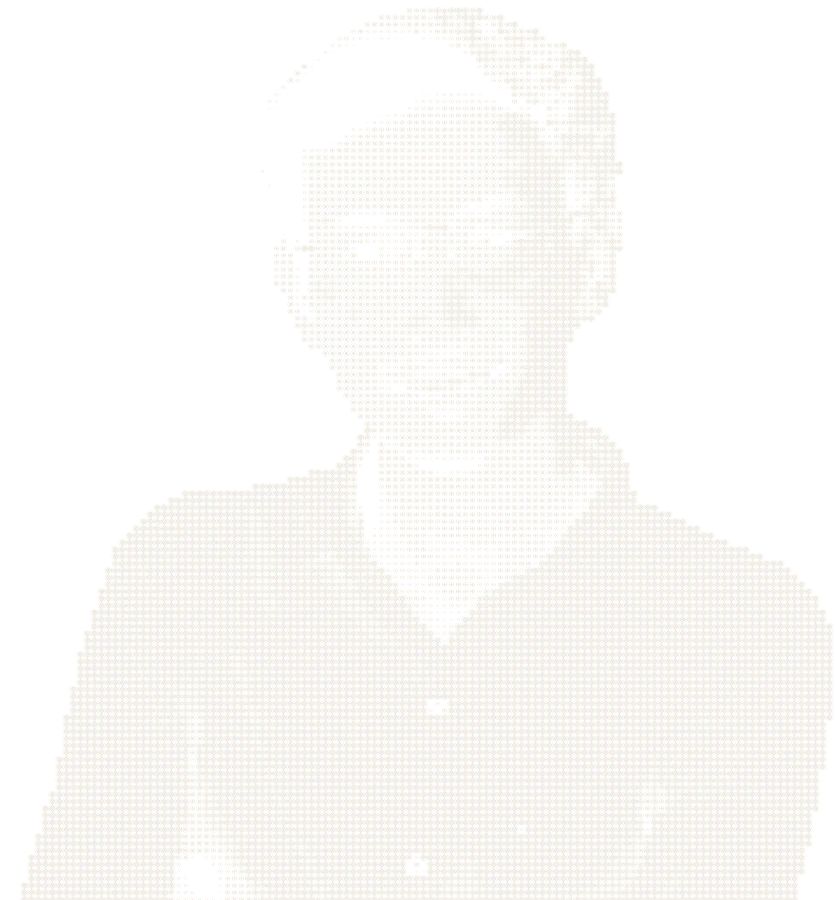
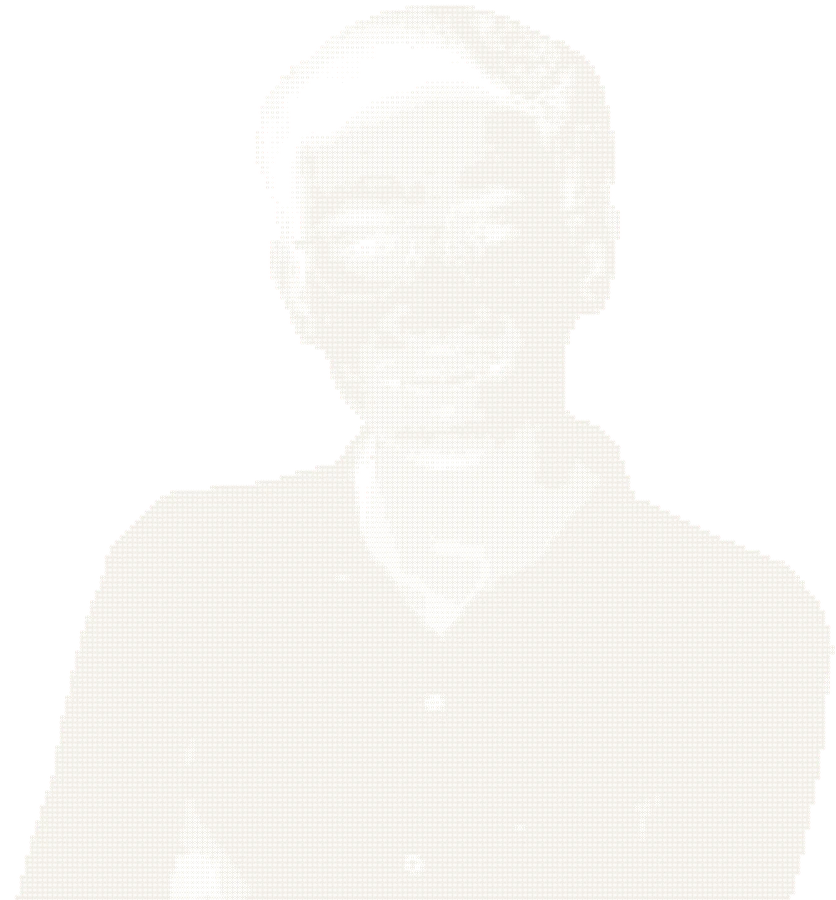
Clearer dot portrait; add freelance section with INR pricing

diff --git a/index.html b/index.html
@@ -39,10 +39,11 @@
         <ol>
             <li><a href="#about"><small>01</small>About</a></li>
             <li><a href="#work"><small>02</small>Selected work</a></li>
-            <li><a href="#expertise"><small>03</small>How I work</a></li>
-            <li><a href="#impact"><small>04</small>Impact</a></li>
-            <li><a href="#journey"><small>05</small>Journey</a></li>
-            <li><a href="#contact"><small>06</small>Contact</a></li>
+            <li><a href="#freelance"><small>03</small>Freelance</a></li>
+            <li><a href="#expertise"><small>04</small>How I work</a></li>
+            <li><a href="#impact"><small>05</small>Impact</a></li>
+            <li><a href="#journey"><small>06</small>Journey</a></li>
+            <li><a href="#contact"><small>07</small>Contact</a></li>
         </ol>
         <a class="menu-resume" target="_blank" rel="noopener noreferrer"
             href="https://drive.google.com/file/d/1MYd9hTbD8lt_QaGo_8vOaBBKqVubUpAJ/view?usp=sharing">Download resume ↗</a>
@@ -223,6 +224,62 @@
             </div>
         </section>
 
+        <!-- FREELANCE -->
+        <section id="freelance" class="solid">
+            <div class="wrap">
+                <p class="mono accent">03 / Work with me</p>
+                <h2>Available for freelance.<br><i>Let's build yours.</i></h2>
+                <p class="sub">I take on web development, app development, coding help and automation projects. Starting prices below, in Indian rupees. Final quote after we scope your project.</p>
+
+                <div class="fl-grid">
+                    <article class="fl-card">
+                        <p class="mono accent">01</p>
+                        <h3>Web development</h3>
+                        <p class="fl-sub">Websites & web apps</p>
+                        <p class="fl-desc">Portfolio and landing pages, business websites, and full MERN web apps with login, payments and admin dashboards.</p>
+                        <ul class="fl-price"><li><span>Landing / portfolio page<small>3–5 days</small></span><b>₹8,000 – 15,000</b></li><li><span>Business website, 5–8 pages<small>1–2 weeks</small></span><b>₹15,000 – 30,000</b></li><li><span>Full-stack MERN web app<small>4–8 weeks</small></span><b>₹40,000 – 1,00,000+</b></li></ul>
+                        <div class="tags"><span>React</span><span>Node.js</span><span>MongoDB</span><span>Stripe</span></div>
+                        <a class="btn link" href="#contact">Get a quote ↗</a>
+                    </article>
+                    <article class="fl-card">
+                        <p class="mono accent">02</p>
+                        <h3>App development</h3>
+                        <p class="fl-sub">Web apps & PWAs</p>
+                        <p class="fl-desc">Installable, mobile-ready apps: booking systems, e-commerce, order management and dashboards with role-based access.</p>
+                        <ul class="fl-price"><li><span>Mobile-ready app (PWA)<small>3–5 weeks</small></span><b>₹30,000 – 60,000</b></li><li><span>Booking or e-commerce app<small>5–8 weeks</small></span><b>₹50,000 – 1,00,000</b></li><li><span>Admin dashboard / OMS<small>4–6 weeks</small></span><b>₹40,000 – 80,000</b></li></ul>
+                        <div class="tags"><span>React</span><span>Express</span><span>JWT · RBAC</span><span>Socket.io</span></div>
+                        <a class="btn link" href="#contact">Get a quote ↗</a>
+                    </article>
+                    <article class="fl-card">
+                        <p class="mono accent">03</p>
+                        <h3>Web coding</h3>
+                        <p class="fl-sub">Fixes, features & hourly work</p>
+                        <p class="fl-desc">Bug fixes, new features, API integrations, performance tuning and code clean-ups on your existing project.</p>
+                        <ul class="fl-price"><li><span>Hourly rate<small>min. 4 hrs</small></span><b>₹400 – 700 / hr</b></li><li><span>Small fix or feature<small>1–3 days</small></span><b>₹1,500 – 5,000</b></li><li><span>API / payment integration<small>2–5 days</small></span><b>₹5,000 – 15,000</b></li></ul>
+                        <div class="tags"><span>JavaScript</span><span>REST APIs</span><span>Stripe</span><span>Git</span></div>
+                        <a class="btn link" href="#contact">Get a quote ↗</a>
+                    </article>
+                    <article class="fl-card">
+                        <p class="mono accent">04</p>
+                        <h3>Automation</h3>
+                        <p class="fl-sub">WhatsApp, Telegram & AI workflows</p>
+                        <p class="fl-desc">Chatbots, scheduled routines, email handling and AI-assisted workflows that remove repetitive work from your team.</p>
+                        <ul class="fl-price"><li><span>WhatsApp / Telegram bot<small>1–2 weeks</small></span><b>₹10,000 – 25,000</b></li><li><span>n8n or cron workflow<small>3–7 days</small></span><b>₹8,000 – 20,000</b></li><li><span>AI-assisted automation<small>2–4 weeks</small></span><b>₹20,000 – 50,000</b></li></ul>
+                        <div class="tags"><span>n8n</span><span>Ollama · LLMs</span><span>IMAP</span><span>Cron</span></div>
+                        <a class="btn link" href="#contact">Get a quote ↗</a>
+                    </article>
+                </div>
+
+                <div class="fl-note">
+                    <div><b class="serif-n">50%</b><span>advance to start, balance on delivery</span></div>
+                    <div><b class="serif-n">2 revisions</b><span>included in every fixed-price project</span></div>
+                    <div><b class="serif-n">30 days</b><span>free bug-fix support after launch</span></div>
+                    <div><b class="serif-n">₹3–8k / mo</b><span>optional maintenance and hosting care</span></div>
+                </div>
+                <p class="mono dim fl-foot">Prices are indicative starting points and depend on scope, design needs and deadline. Not included: domain, hosting and third-party fees.</p>
+            </div>
+        </section>
+
         <!-- EXPERTISE -->
         <section id="expertise" class="solid">
             <div class="wrap">
@@ -263,7 +320,7 @@
         <!-- IMPACT -->
         <section id="impact" class="impact">
             <div class="wrap">
-                <p class="mono accent">04 / The work, multiplied</p>
+                <p class="mono accent">05 / The work, multiplied</p>
                 <h2>Reach is a number.<br><i>Impact is practical.</i></h2>
                 <div class="impact-grid">
                     <div class="impact-big">
@@ -284,7 +341,7 @@
         <!-- JOURNEY -->
         <section id="journey" class="solid">
             <div class="wrap">
-                <p class="mono accent">05 / Still becoming</p>
+                <p class="mono accent">06 / Still becoming</p>
                 <h2>Started with code.<br><i>Kept asking why.</i></h2>
                 <div class="timeline">
                     <div class="tl"><span class="yr">2021</span><div><h3>Learning by building.</h3><p>Began my BCA at B.K. Mehta IT Centre, HNGU Patan, and started building with web technologies. Graduated in 2024 with a 6.97 CGPA.</p></div></div>
@@ -299,7 +356,7 @@
         <!-- CONTACT -->
         <section id="contact" class="contact">
             <div class="wrap">
-                <p class="mono accent">06 / The next chapter</p>
+                <p class="mono accent">07 / The next chapter</p>
                 <h2>Something great<br>starts with <i>a hello.</i></h2>
                 <p class="sub">Products, automation, freelance work, full-time roles. If our worlds overlap, I'd love to hear from you.</p>
 

diff --git a/style.css b/style.css
@@ -325,3 +325,22 @@ html.lenis { scroll-behavior: auto; }
 .no-motion .illus .am-glow, .no-motion .illus .sh-pkg, .no-motion .illus .sh-lit, .no-motion .illus .am-mail { opacity: 0 !important; }
 @media (prefers-reduced-motion: reduce) { .illus * { animation: none !important; opacity: 1 !important; transform: none !important; stroke-dashoffset: 0 !important; } .illus .am-glow, .illus .sh-pkg, .illus .sh-lit, .illus .am-mail { opacity: 0 !important; } }
 .perspectives .illus-cap p { margin: 0; max-width: none; text-align: left; color: var(--accent); }
+
+/* ===== freelance ===== */
+.fl-grid { display: grid; grid-template-columns: repeat(auto-fit, minmax(270px, 1fr)); gap: 18px; margin-top: 60px; }
+.fl-card { border: 1px solid var(--line); border-radius: 14px; background: var(--bg); padding: 28px 24px 26px; display: flex; flex-direction: column; transition: border-color .4s, transform .5s cubic-bezier(.19, 1, .22, 1); }
+.fl-card:hover { border-color: var(--accent); transform: translateY(-6px); }
+.fl-card h3 { font-family: var(--serif); font-weight: 400; font-size: clamp(2rem, 3vw, 2.6rem); line-height: 1.05; margin: 12px 0 4px; }
+.fl-sub { color: var(--accent); font-size: .9rem; }
+.fl-desc { color: #cfcac0; margin: 14px 0 20px; font-size: .95rem; }
+.fl-price { border-top: 1px solid var(--line); margin-bottom: 4px; }
+.fl-price li { display: flex; justify-content: space-between; align-items: baseline; gap: 14px; padding: 12px 0; border-bottom: 1px solid var(--line); font-size: .92rem; }
+.fl-price li span small { display: block; font-family: var(--mono); font-size: .62rem; letter-spacing: .1em; text-transform: uppercase; color: var(--dim); margin-top: 2px; }
+.fl-price li b { font-family: var(--serif); font-weight: 400; font-size: 1.25rem; white-space: nowrap; text-align: right; }
+.fl-card .tags { margin: 18px 0; }
+.fl-card .btn { margin-top: auto; align-self: flex-start; }
+.fl-note { display: grid; grid-template-columns: repeat(auto-fit, minmax(190px, 1fr)); gap: 30px; margin-top: 60px; padding-top: 34px; border-top: 1px solid var(--line); }
+.fl-note b { display: block; font-family: var(--serif); font-weight: 400; font-size: clamp(1.8rem, 3vw, 2.5rem); line-height: 1.1; color: var(--fg); }
+.fl-note span { color: var(--dim); font-size: .9rem; }
+.fl-foot { margin-top: 36px; text-transform: none; letter-spacing: .04em; max-width: 70ch; }
+@media (max-width: 860px) { .fl-price li { flex-direction: column; gap: 2px; } .fl-price li b { text-align: left; } }

diff --git a/script.js b/script.js
@@ -91,7 +91,7 @@
       dpr = Math.min(window.devicePixelRatio || 1, 2);
       W = rect.width; H = rect.height;
       canvas.width = W * dpr; canvas.height = H * dpr;
-      const step = W < 420 ? 5 : 6.5;
+      const step = W < 420 ? 4 : 5;
       const cols = Math.floor(W / step), rows = Math.floor(H / step);
       const off = document.createElement("canvas"); off.width = cols; off.height = rows;
       const o = off.getContext("2d", { willReadFrequently: true });
@@ -103,7 +103,7 @@
         const i = (y * cols + x) * 4, a = data[i + 3];
         if (a < 128) continue;
         const lum = data[i] / 255;
-        const r = (step / 2) * Math.sqrt(lum) * 1.05;
+        const r = (step / 2) * Math.sqrt(lum) * 1.1;
         if (r < 0.45) continue;
         const hx = (x + 0.5) * step, hy = (y + 0.5) * step;
         parts.push({ hx, hy, x: assembled ? hx : Math.random() * W, y: assembled ? hy : H + Math.random() * H * 0.6, vx: 0, vy: 0, r, rx: Math.random() - 0.5, ry: Math.random() });
@@ -154,7 +154,7 @@
   }
 
   // ---------- reveal targets ----------
-  $$(".proof-row > div, .about-grid > *, .perspectives, .case, .more a, .expertise, .impact-big, .impact-side > div, .tl, .links li, #enquiry-form, h2, .sub")
+  $$(".proof-row > div, .about-grid > *, .perspectives, .case, .more a, .fl-card, .fl-note > div, .expertise, .impact-big, .impact-side > div, .tl, .links li, #enquiry-form, h2, .sub")
     .forEach((el) => el.classList.add("rv"));
 
   if (!motion) { showStaticCounts(); $$(".rv").forEach((e) => e.classList.remove("rv")); return; }
